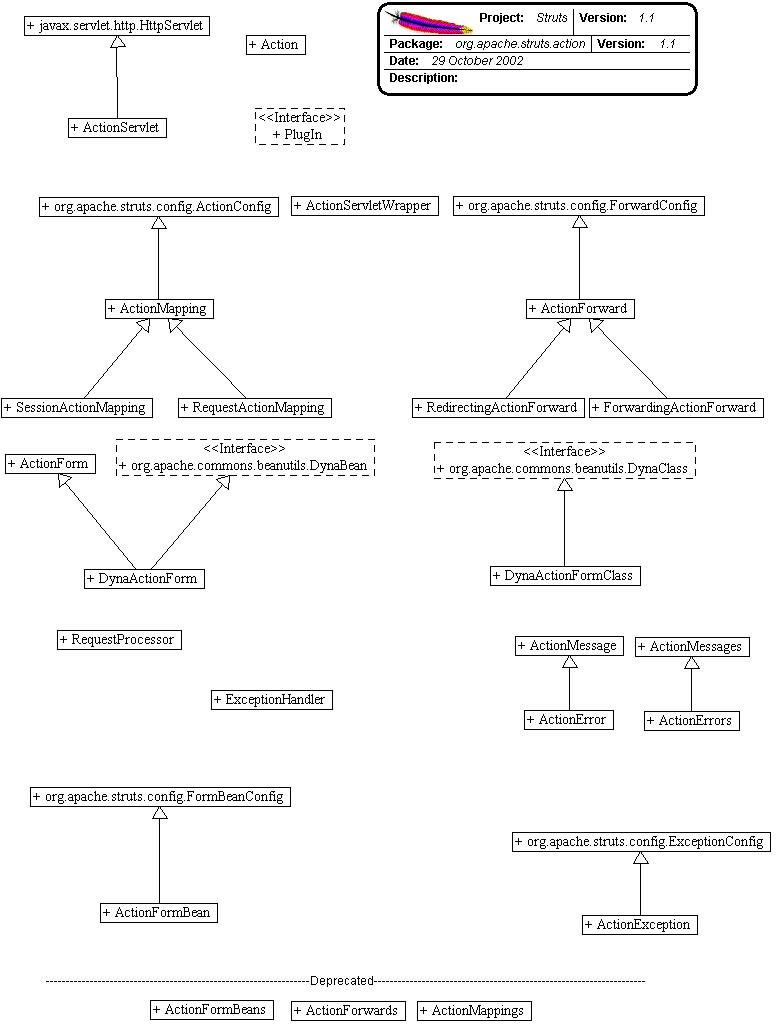
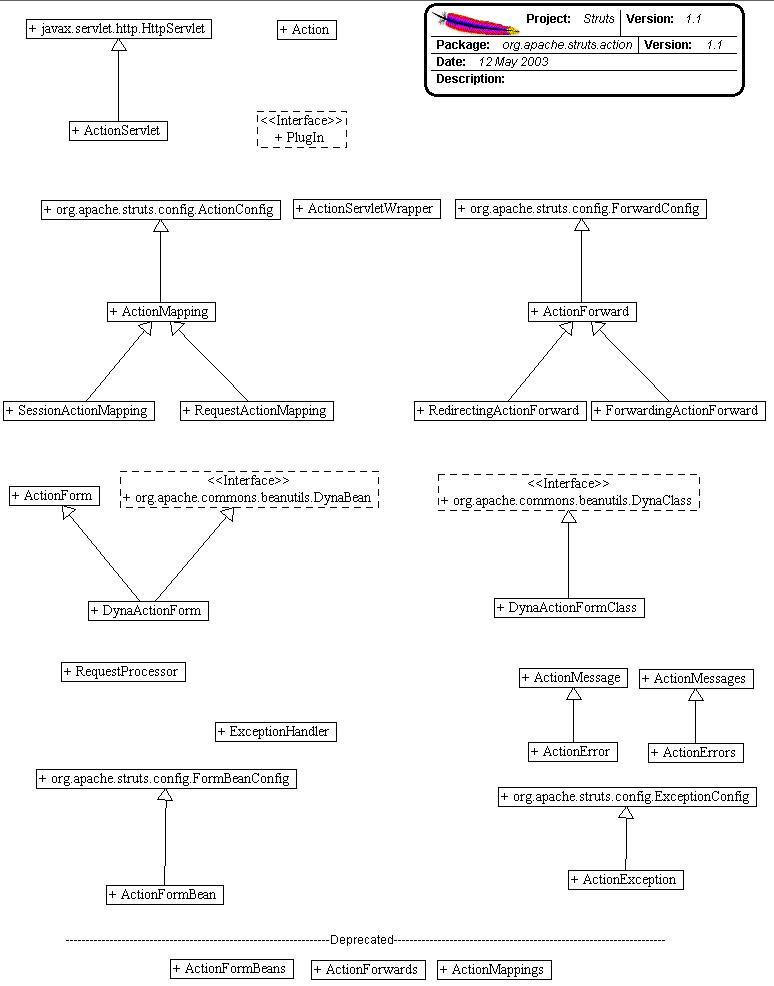
Update UML replacing jpg files with much smaller gifs.

diff --git a/src/share/org/apache/struts/actions/package.html b/src/share/org/apache/struts/actions/package.html
@@ -8,7 +8,7 @@
  request and the corresponding business logic.</p>
  <br>
  <br>
- <img src="doc-files/actionsUML.jpg" alt="Action Package UML" >
+ <img src="doc-files/actionsUML.gif" alt="Action Package UML" >
  <br>
  
 <h2>Package Specification</h2>
